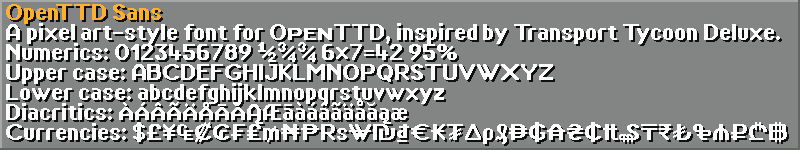
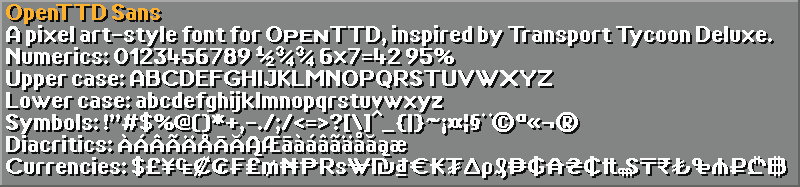
Fix: Set space to integer number of pixel equivalents
Sets spaces to match original Transport Tycoon Deluxe. Also fix build pipeline.

diff --git a/openttd-sans/font_preview.py b/openttd-sans/font_preview.py
@@ -5,6 +5,7 @@ from PIL import Image, ImageDraw, ImageFont
 
 fontpath = "OpenTTD-Sans.ttf"
 size = 10
+line = size + 1
 background = (131, 133, 133)
 background_shade = [(168, 168, 168), (98, 101, 98)]
 foreground = (252, 252, 252)
@@ -26,18 +27,19 @@ fontmodes = [{
 
 for scale in scales:
     for fontmode in fontmodes:
-        image = Image.new("RGB", (400 * scale, int(7.5 * size * scale)), background_shade[1])
+        image = Image.new("RGB", (400 * scale, int(8.5 * line * scale)), background_shade[1])
         draw = ImageDraw.Draw(image)
         draw.rectangle((0, 0, image.size[0] - scale - 1, image.size[1] - scale - 1), fill=background_shade[0], outline=None)
         draw.rectangle((0 + scale, 0 + scale, image.size[0] - scale - 1, image.size[1] - scale - 1), fill=background, outline=None)
         if fontmode["mode"] is not None:
             draw.fontmode = fontmode["mode"]
         font = ImageFont.truetype(fontpath, size * scale)
-        shadowtext(draw, scale, (3, 2 + size * 0), "OpenTTD Sans", font, (252, 176, 48), shadow)
-        shadowtext(draw, scale, (3, 2 + size * 1), "A pixel art-style font for OᴘᴇɴTTD, inspired by Transport Tycoon Deluxe.", font, foreground, shadow)
-        shadowtext(draw, scale, (3, 2 + size * 2), "Numerics: 0123456789 ½¾¾ 6×7=42 95%", font, foreground, shadow)
-        shadowtext(draw, scale, (3, 2 + size * 3), "Upper case: ABCDEFGHIJKLMNOPQRSTUVWXYZ", font, foreground, shadow)
-        shadowtext(draw, scale, (3, 2 + size * 4), "Lower case: abcdefghijklmnopqrstuvwxyz", font, foreground, shadow)
-        shadowtext(draw, scale, (3, 2 + size * 5), "Diacritics: ÀÁÂÃÄÅĀĂĄÆāàáâãäåăąæ", font, foreground, shadow)
-        shadowtext(draw, scale, (3, 2 + size * 6), "Currencies: $£¥₠₡₢₣₤₥₦₧₨₩₪₫€₭₮₯₰₱₲₳₴₵₶₷₸₹₺₻₼₽₾₿", font, foreground, shadow)
+        shadowtext(draw, scale, (3, 2 + line * 0), "OpenTTD Sans", font, (252, 176, 48), shadow)
+        shadowtext(draw, scale, (3, 2 + line * 1), "A pixel art-style font for OᴘᴇɴTTD, inspired by Transport Tycoon Deluxe.", font, foreground, shadow)
+        shadowtext(draw, scale, (3, 2 + line * 2), "Numerics: 0123456789 ½¾¾ 6×7=42 95%", font, foreground, shadow)
+        shadowtext(draw, scale, (3, 2 + line * 3), "Upper case: ABCDEFGHIJKLMNOPQRSTUVWXYZ", font, foreground, shadow)
+        shadowtext(draw, scale, (3, 2 + line * 4), "Lower case: abcdefghijklmnopqrstuvwxyz", font, foreground, shadow)
+        shadowtext(draw, scale, (3, 2 + line * 5), "Symbols: !\"#$%@()*+,-./;/<=>?[\]^_{|}~¡¤¦§¨©ª«¬®", font, foreground, shadow)
+        shadowtext(draw, scale, (3, 2 + line * 6), "Diacritics: ÀÁÂÃÄÅĀĂĄÆāàáâãäåăąæ", font, foreground, shadow)
+        shadowtext(draw, scale, (3, 2 + line * 7), "Currencies: $£¥₠₡₢₣₤₥₦₧₨₩₪₫€₭₮₯₰₱₲₳₴₵₶₷₸₹₺₻₼₽₾₿", font, foreground, shadow)
         image.save("OpenTTD-Sans-" + str(scale * size) + "px-" + fontmode["description"] + ".png", "PNG")
